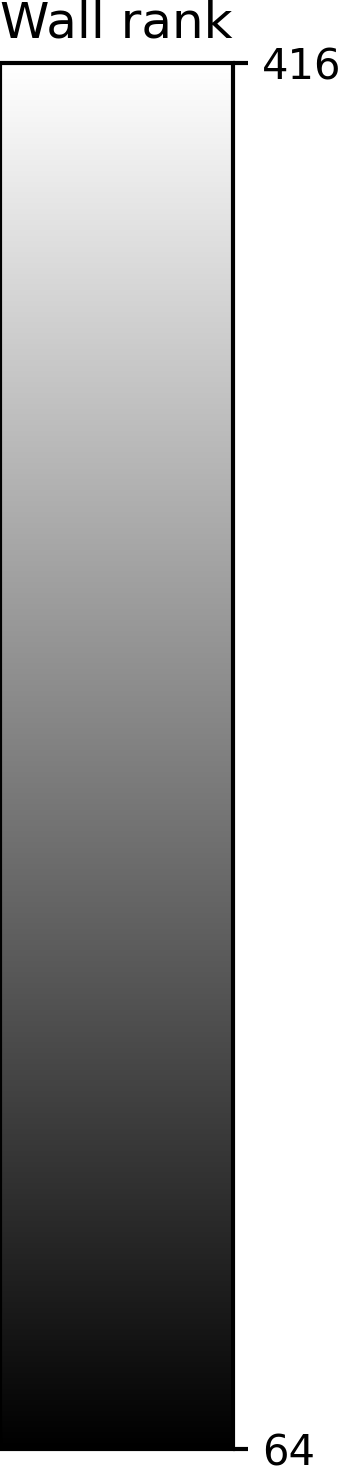
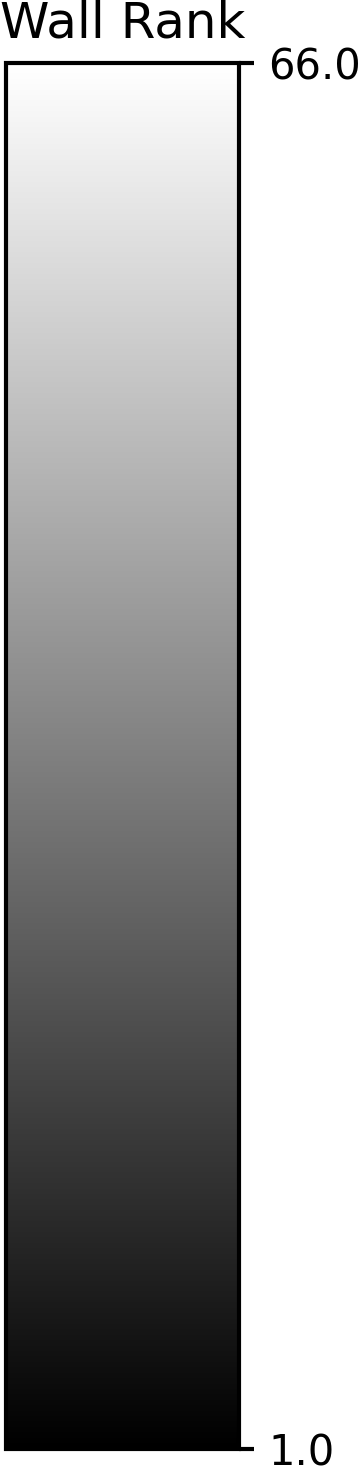
v8 works with floats and ints now; only issue remaining is with data. there are not any features for wall 5701C. do you know why this is?

diff --git a/readCSV8.py b/readCSV8.py
@@ -1,0 +1,179 @@
+import csv
+from PIL import Image, ImageDraw, ImageFont
+from matplotlib import pyplot as plt
+
+# Define the path to the CSV file containing data
+#works
+#date = '2023_9_5_'
+#csv_file_path = date+'output_blocks_cont4.csv'
+#num feature columns
+#featCols = 19
+
+#needs to work
+date = '2023_9_27_'
+csv_file_path = date+'targeted_eval.csv'
+#num feature columns
+featCols = 26
+
+# Read the CSV file and extract the data
+data = []
+names = []  # Create an empty list to store the names
+with open(csv_file_path, 'r') as csv_file:
+    csv_reader = csv.reader(csv_file)
+    header = next(csv_reader)  # Get the header row
+    for row in csv_reader:
+        name = row[0]
+        names.append(name)  # Store the names in the same order as the data
+        # Extract and convert points from CSV to tuples
+        points = []
+        for point_str in row[1:-featCols]:
+            if point_str.strip() == '':
+                continue  # Skip empty points
+            point = tuple(map(float, point_str.split(',')))
+            points.append(point)
+        # Handle discrete and continuous values, converting to appropriate types
+        features = []
+        for feature in row[-featCols:]:
+            if not feature:
+                # Replace empty entries with '-'
+                feature = '-'
+            elif '.' in feature:
+                feature = float(feature)
+            else:
+                feature = int(feature)
+            features.append(feature)
+        data.append((points, features))
+
+# Calculate image dimensions based on the extracted points
+max_x = max(p[0] for points, _ in data for p in points)
+max_y = max(p[1] for points, _ in data for p in points)
+min_x = min(p[0] for points, _ in data for p in points)
+min_y = min(p[1] for points, _ in data for p in points)
+image_width = int(max_x - min_x + 400)  # Add some padding for labels
+image_height = int(max_y - min_y + 400)  # Add some padding for labels
+
+# Separate discrete and continuous feature columns
+discrete_features = [feature_index for feature_index, feature in enumerate(data[0][1], start=len(data[0][0]) + 1) if
+                     isinstance(feature, int)]
+continuous_features = [feature_index for feature_index, feature in enumerate(data[0][1], start=len(data[0][0]) + 1) if
+                       isinstance(feature, float)]
+
+
+
+# Create a color mapping for discrete values
+color_mapping = {
+    0: 'green',
+    1: 'yellow',
+    2: '#FFD700',  # Yellow-Orange
+    3: 'orange',   # Full orange
+    4: '#FF6347',  # Light red
+    5: 'red'       # Dark red
+}
+
+# Choose a font for labeling
+font = ImageFont.load_default()  # You can choose an appropriate font
+
+# Create images for each feature column
+for feature_index, feature_name in enumerate(header[-featCols:], start=len(data[0][0]) + 1): #HER
+    output_image_path = date+f'output_image_{feature_name}.png'
+    image = Image.new('RGB', (image_width, image_height), 'white')  # Create an image based on calculated dimensions
+    draw = ImageDraw.Draw(image)  # Create a drawing object for the image
+
+    # Calculate the title position based on image dimensions
+    title_x = image_width // 3
+    title_y = 20
+
+    # Add the feature name to the image
+    draw.text((title_x, title_y), feature_name, font=font, fill='black')
+
+    if feature_index in discrete_features:
+        # Draw shapes for discrete values using extracted points and features
+        count=0
+        for points, feature in data:
+            fill_color = color_mapping.get(feature[feature_index - len(data[0][0]) - 1], 'white')  # Get color based on feature value
+            adjusted_points = [(int(p[0] - min_x + 50), int(p[1] - min_y + 50)) for p in points]  # Adjust points based on image dimensions
+            draw.polygon(adjusted_points, outline='black', fill=fill_color)
+
+            # Calculate the center of the rectangle
+            center_x = sum(p[0] for p in adjusted_points) // len(adjusted_points)
+            center_y = sum(p[1] for p in adjusted_points) // len(adjusted_points)
+
+            # Draw the name as text in the center
+            text_x = center_x - (len(feature) * 2)  # Adjust text position based on text length
+            text_y = center_y - 10  # Adjust text position vertically
+            draw.text((text_x, text_y), names[count], font=font, fill='black')
+            count = count + 1
+
+        # Create a legend for discrete values
+        for i, label in enumerate(['0', '1', '2', '3', '4', '5']):
+            legend_x = image_width - 150
+            legend_y = 50 + i * 50
+            draw.rectangle([legend_x, legend_y, legend_x + 30, legend_y + 30], outline='black',
+                           fill=color_mapping.get(int(label), 'black'))
+            draw.text((legend_x + 40, legend_y), label, font=font, fill='black')
+    elif feature_index in continuous_features:
+        # Create a grayscale colorbar for continuous values
+        min_value = min(float(feature[feature_index - len(data[0][0]) - 1]) for _, feature in data if isinstance(feature[feature_index - len(data[0][0]) - 1], (int, float)))
+        max_value = max(float(feature[feature_index - len(data[0][0]) - 1]) for _, feature in data if isinstance(feature[feature_index - len(data[0][0]) - 1], (int, float)))
+        color_range = max_value - min_value
+        count = 0
+        for points, feature in data:
+            # Check if the value is not an empty string and can be converted to a float
+            value_to_convert = feature[feature_index - len(data[0][0]) - 1]
+            if value_to_convert != '' and value_to_convert != '-':
+                value_as_float = float(value_to_convert)
+            else:
+                value_as_float = 0.0  # Or any other default value you prefer
+
+            normalized_value = (value_as_float - min_value) / color_range
+
+            grayscale_value = int(255 * normalized_value)
+            fill_color = (grayscale_value, grayscale_value, grayscale_value)
+            adjusted_points = [(int(p[0] - min_x + 50), int(p[1] - min_y + 50)) for p in points]  # Adjust points based on image dimensions
+            draw.polygon(adjusted_points, outline='black', fill=fill_color)
+
+            # Calculate the center of the rectangle
+            center_x = sum(p[0] for p in adjusted_points) // len(adjusted_points)
+            center_y = sum(p[1] for p in adjusted_points) // len(adjusted_points)
+
+            # Draw the name as text in the center
+            text_x = center_x - (len(feature) * 2)  # Adjust text position based on text length
+            text_y = center_y - 10  # Adjust text position vertically
+            draw.text((text_x, text_y), names[count], font=font, fill='red')
+            count = count + 1
+
+            # Create a grayscale colorbar for continuous values
+            colorbar_x = image_width - 200
+            colorbar_y = 100
+            colorbar_width = 25
+            colorbar_height = 400
+
+            # Create a smooth gradient colorbar using matplotlib
+            fig, ax = plt.subplots(figsize=(1, 6))
+            cmap = plt.get_cmap('gray')
+            norm = plt.Normalize(min_value, max_value)
+            cb = plt.colorbar(plt.cm.ScalarMappable(norm=norm, cmap=cmap), cax=ax)
+            cb.ax.set_title(feature_name, fontsize=12)
+            cb.ax.tick_params(labelsize=10)
+
+            # Set a solid background color for the colorbar
+            cb.outline.set_edgecolor('black')  # Border color
+            cb.outline.set_linewidth(1)  # Border width
+            cb.ax.xaxis.set_tick_params(color='black', width=1)  # Tick color and width
+            cb.ax.yaxis.set_tick_params(color='black', width=1)  # Tick color and width
+            # Customize colorbar labels with min_value and max_value
+            cb.set_ticks([min_value, max_value])
+            cb.set_ticklabels([str(min_value), str(max_value)])
+
+            # Save the colorbar as an image
+            colorbar_image_path = f'colorbar_{feature_name}.png'
+            plt.savefig(colorbar_image_path, bbox_inches='tight', pad_inches=0, transparent=False, dpi=300)
+            plt.close()
+
+            # Load and paste the colorbar onto the main image
+            colorbar_image = Image.open(colorbar_image_path)
+            colorbar_image = colorbar_image.resize((80, 400))
+            image.paste(colorbar_image, (colorbar_x, colorbar_y))
+
+    # Save the generated image
+    image.save(output_image_path)
